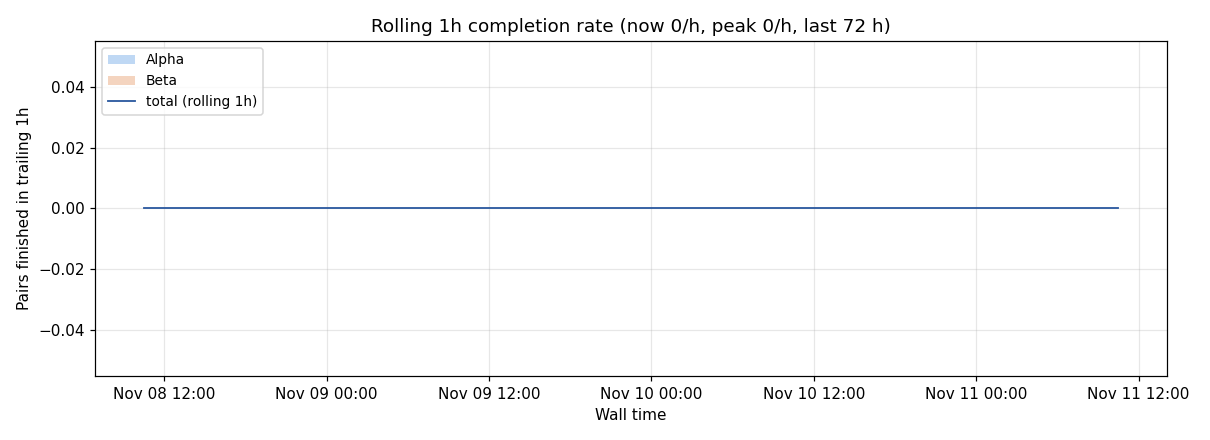
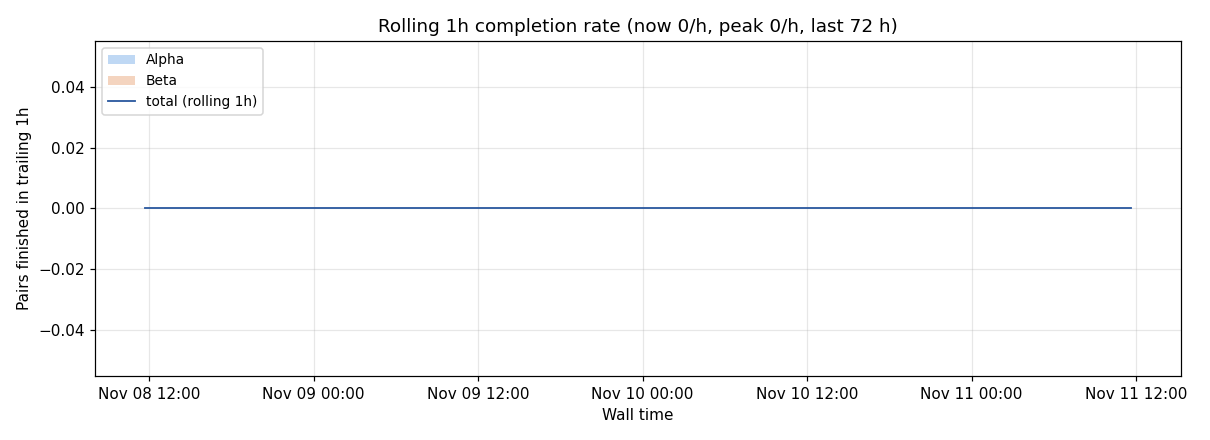
auto: 2026-11-11 11:36:20

diff --git a/index.html b/index.html
@@ -24,7 +24,7 @@ tr:nth-child(even) { background: #fafafa; }
 </style>
 </head><body>
 <h1>AF3 Campaign Dashboard</h1>
-<p class="stamp">Last updated: <strong>2026-11-11 10:35 EDT</strong> · regenerated on the cluster hourly · this page auto-reloads every 30 min</p>
+<p class="stamp">Last updated: <strong>2026-11-11 11:39 EDT</strong> · regenerated on the cluster hourly · this page auto-reloads every 30 min</p>
 
 <div class="cards">
   <div class="card"><div class="v">35,750</div><div class="l">Total COMPLETED pairs</div></div>
@@ -50,7 +50,7 @@ tr:nth-child(even) { background: #fafafa; }
 </div>
 
 <h2>Beta (GB200) jobs</h2>
-<p class='stamp'>Beta snapshot 8 min old (refreshed every 10 min from the Beta login node).</p>
+<p class='stamp'>Beta snapshot 1 min old (refreshed every 10 min from the Beta login node).</p>
 <div class="queue-table">
 <table><thead><tr><th>Job</th><th>State</th><th>Elapsed</th><th>Left</th><th>Pairs done</th><th>Node / reason</th></tr></thead>
 <tbody><tr><td colspan=6><em>none</em></td></tr></tbody></table>
@@ -62,7 +62,7 @@ tr:nth-child(even) { background: #fafafa; }
     <h3>RUNNING (3)</h3>
     <div class="queue-table">
       <table><thead><tr><th>Job</th><th>Elapsed</th><th>Left</th><th>Reason / Node</th></tr></thead>
-      <tbody><tr><td>gcell</td><td>10:37:29</td><td>1-13:22:31</td><td>betagg06</td></tr><tr><td>gcell</td><td>10:37:29</td><td>1-13:22:31</td><td>betagg08</td></tr><tr><td>gcell</td><td>10:37:29</td><td>1-13:22:31</td><td>betagg10</td></tr></tbody></table>
+      <tbody><tr><td>gcell</td><td>11:40:03</td><td>1-12:19:57</td><td>betagg06</td></tr><tr><td>gcell</td><td>11:40:03</td><td>1-12:19:57</td><td>betagg08</td></tr><tr><td>gcell</td><td>11:40:03</td><td>1-12:19:57</td><td>betagg10</td></tr></tbody></table>
     </div>
   </div>
   <div>
